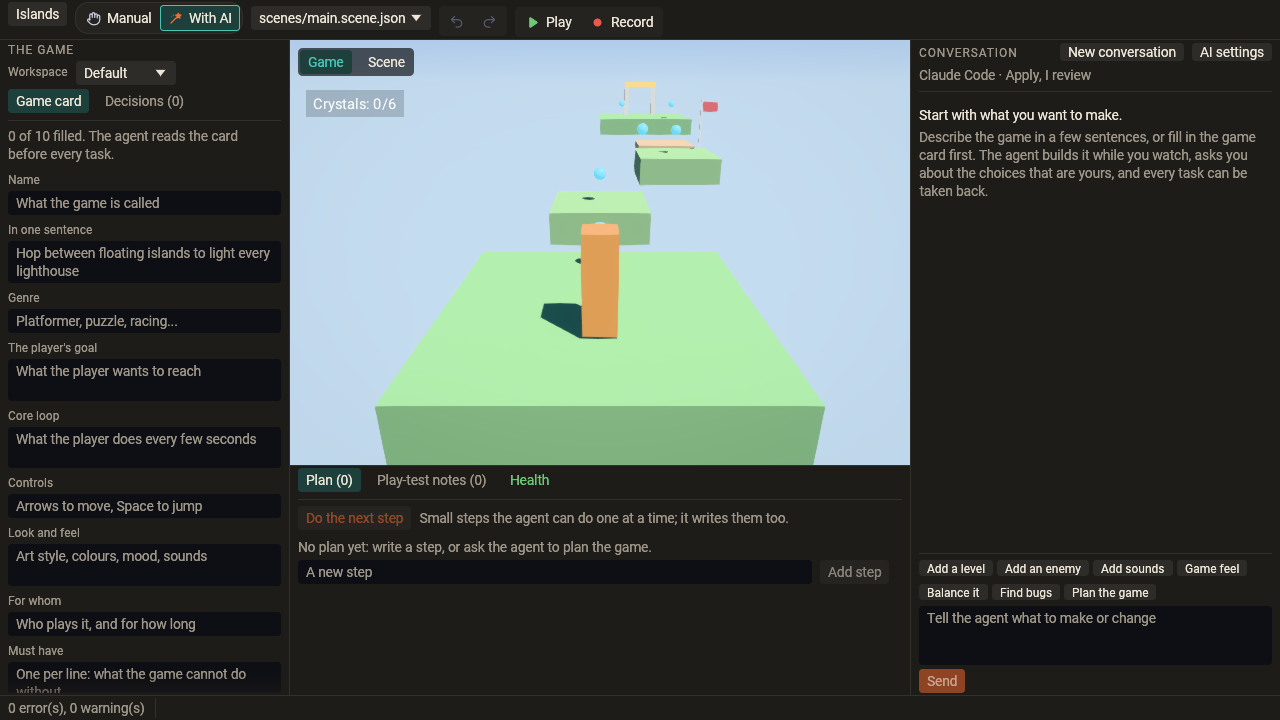
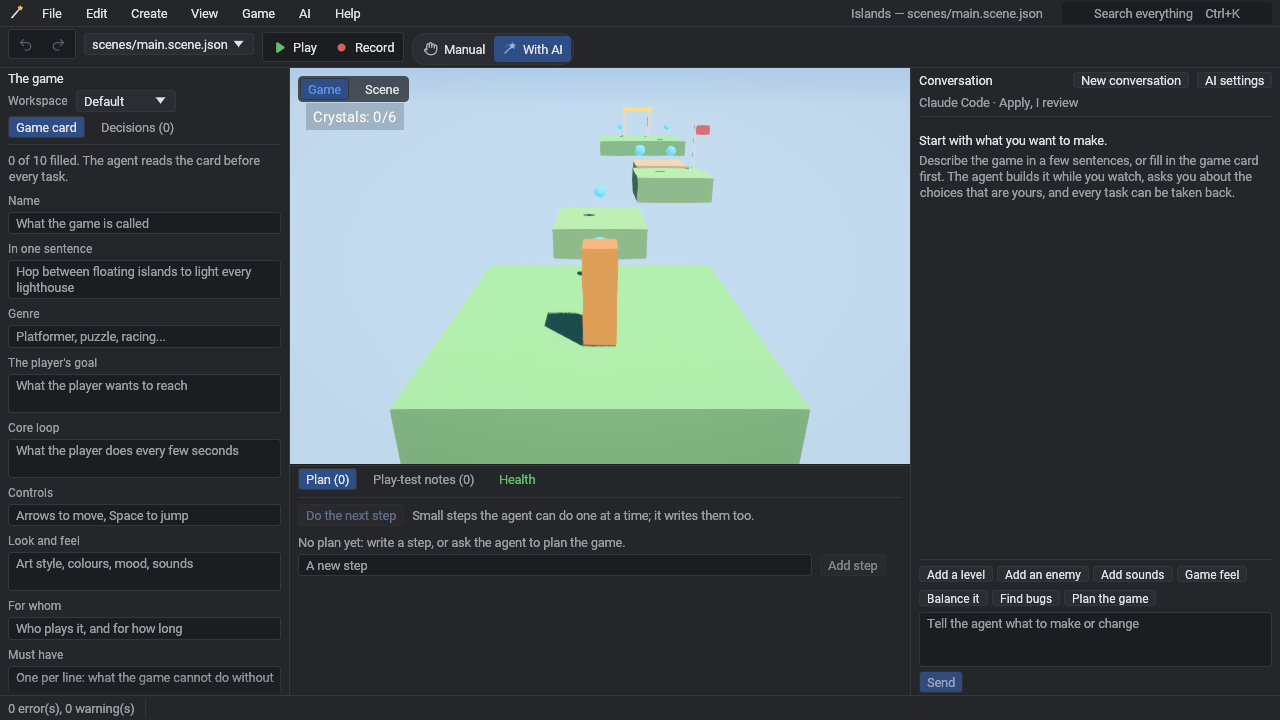
README pictures of the redesigned editor
docs/images/editor.png and editor-ai.png drawn again with
`python tools/readme_pictures.py --only editor editor-ai` (release wen,
software adapter) after the editor redesign; looked at. The caption of the
manual editor's picture names what it now shows. The other pictures are of
the games and did not change (the look did not).

diff --git a/README.md b/README.md
@@ -43,7 +43,7 @@ default look (*Natural*). `python tools/readme_pictures.py` draws them all again
 | ![A level 400 m wide made of primitives, with cascaded shadows](docs/images/outdoor.png) | ![The Hop example](docs/images/hop.png) |
 | A level 400 m wide, built with one `edit_apply` call on a new project: cascaded shadows, sky light, fog, bloom, colour grading, FXAA. | [examples/hop](examples/hop): 3D jumping. |
 | ![The Bricks example](docs/images/bricks.png) | ![The editor with the showcase open](docs/images/editor.png) |
-| [examples/bricks](examples/bricks): 2D, with an orthographic camera. | The editor by hand: hierarchy, scene view with a gizmo, inspector, assets. |
+| [examples/bricks](examples/bricks): 2D, with an orthographic camera. | The editor by hand: a menu bar and toolbar, the hierarchy with its filter, the scene view with its floating tools and a gizmo, the inspector, the assets. |
 
 ![The editor in its AI mode](docs/images/editor-ai.png)
 
